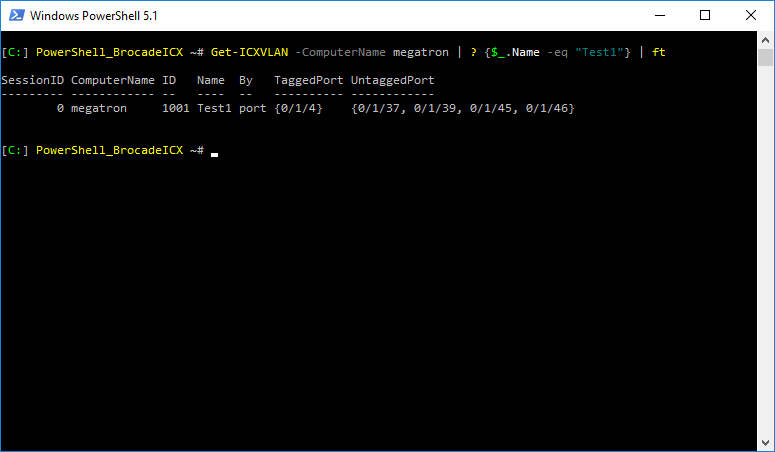
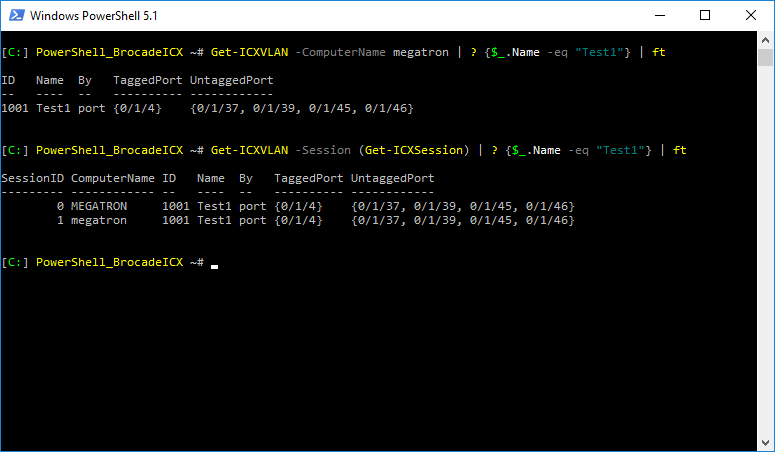
DefaultDisplayPropertySet added

diff --git a/Documentation/Function/Get-ICXVLAN.README.md b/Documentation/Function/Get-ICXVLAN.README.md
@@ -21,22 +21,21 @@ Get-ICXVLAN [-Session] <PSObject[]> [<CommonParameters>]
 ## Example 1
 
 ```powershell
-PS> Get-ICXVLAN -ComputerName megatron
+PS> Get-ICXVLAN -ComputerName megatron | ? {$_.Name -eq "Test1"} | ft
 
-SessionID ComputerName ID   Name         By   TaggedPort                   UntaggedPort
---------- ------------ --   ----         --   ----------                   ------------
-        2 megatron     1001 Test1        port {0/1/1}                      {0/1/5, 0/1/6, 0/1/7, 0/1/8, ...}
-        2 megatron     1002 Test2        port {0/1/1, 0/1/2, 0/1/3, 0/1/4} {0/1/11, 0/1/12, 0/1/13, 0/1/14, ...}
+ID   Name  By   TaggedPort UntaggedPort
+--   ----  --   ---------- ------------
+1001 Test1 port {0/1/4}    {0/1/37, 0/1/39, 0/1/45, 0/1/46}
 ```
 
 ## Example 2
 
 ```powershell
-PS> $Session = Get-ICXSession -SessionID 0,2
-PS> Get-ICXVLAN -Session $Session | Where-Object {$_.Name -eq "Test1"}
+PS> New-ICXSession -ComputerName MEGATRON, megatron
+PS> Get-ICXVLAN -Session (Get-ICXSession) | ? {$_.Name -eq "Test1"} | ft
 
-SessionID ComputerName ID   Name         By   TaggedPort                   UntaggedPort
---------- ------------ --   ----         --   ----------                   ------------
-        0 megatron     1001 Test1        port {0/1/1}                      {0/1/5, 0/1/6, 0/1/7, 0/1/8, ...}
-        2 megatron     1001 Test1        port {0/1/1}                      {0/1/5, 0/1/6, 0/1/7, 0/1/8, ...}
+SessionID ComputerName ID   Name  By   TaggedPort UntaggedPort
+--------- ------------ --   ----  --   ---------- ------------
+        0 MEGATRON     1001 Test1 port {0/1/4}    {0/1/37, 0/1/39, 0/1/45, 0/1/46}
+        1 megatron     1001 Test1 port {0/1/4}    {0/1/37, 0/1/39, 0/1/45, 0/1/46}
 ```
